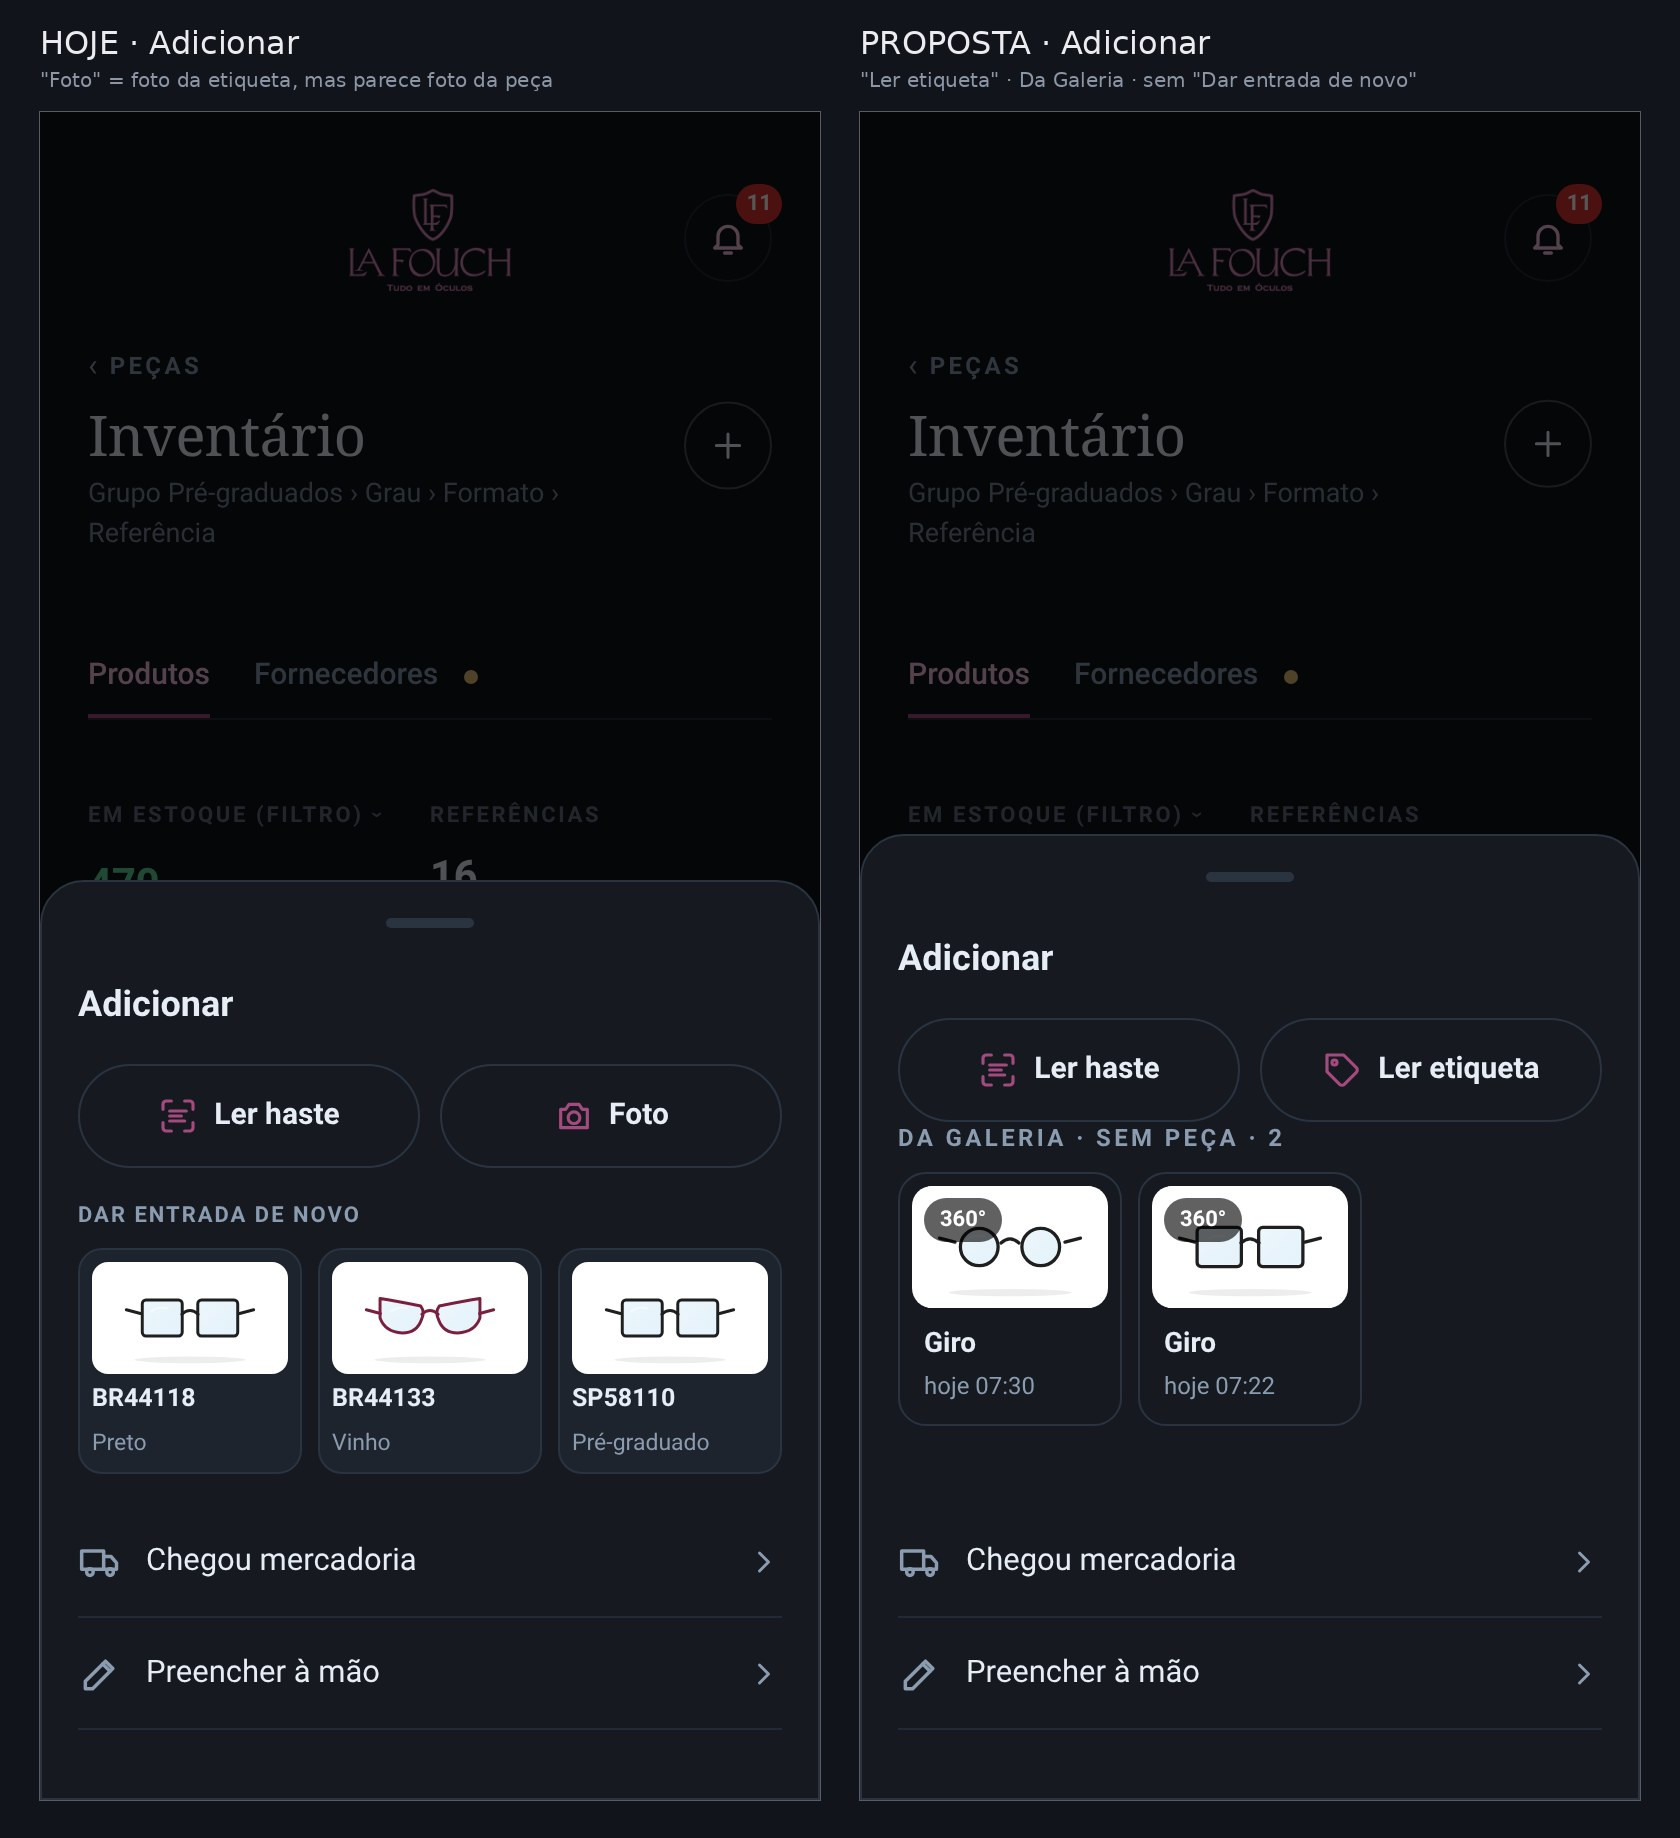
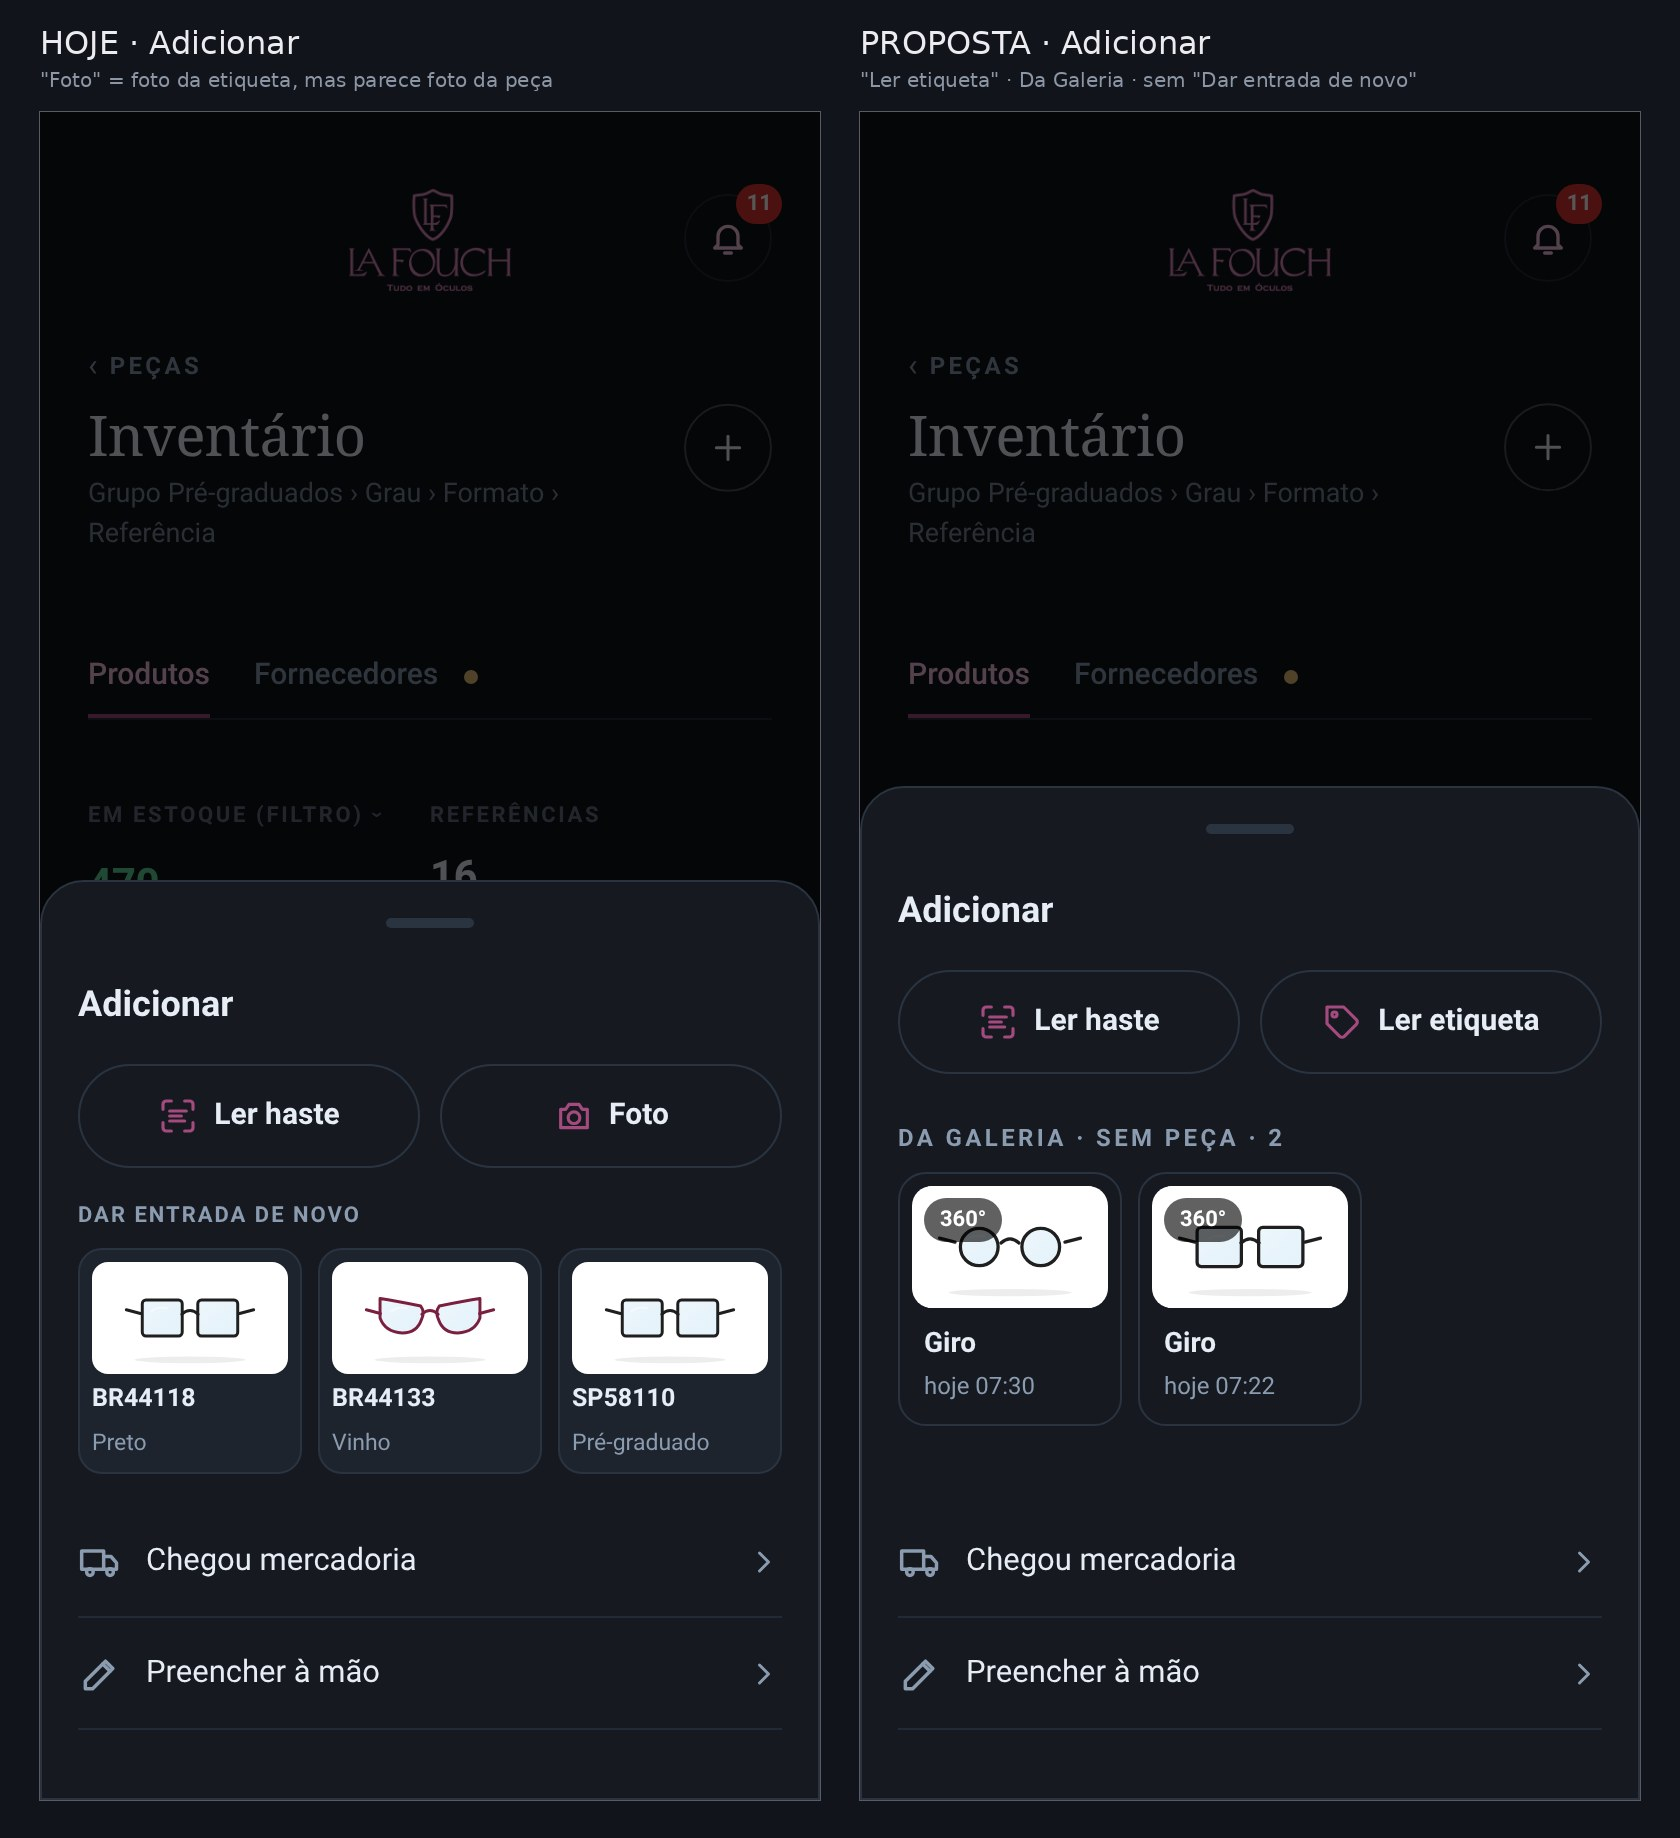
esboço 44a: espaço do rótulo da Galeria
Claude-Session: https://claude.ai/code/session_01Vj5GPRt4UBskC3w8v52h7G

diff --git a/work/s435/cadastro/esboco_44.py b/work/s435/cadastro/esboco_44.py
@@ -23,7 +23,7 @@ def tela(pw,qual):
     pg.evaluate(r"""(I)=>{"""+CARD+r"""const ft=document.getElementById('btnFoto');ft.querySelector('b').textContent='Ler etiqueta';ft.setAttribute('aria-label','Ler etiqueta');
      ft.querySelector('svg').innerHTML='<path d="M20.6 13.4l-7.2 7.2a2 2 0 0 1-2.8 0L3 13V3h10l7.6 7.6a2 2 0 0 1 0 2.8z"/><circle cx="7.5" cy="7.5" r="1.5"/>';
      const lb=[...document.querySelectorAll('body *')].filter(e=>/^dar entrada de novo$/i.test((e.textContent||'').trim())&&e.getBoundingClientRect().height).pop();
-     const d=document.createElement('div');d.innerHTML='<div style="font-size:12px;font-weight:700;letter-spacing:.14em;text-transform:uppercase;color:var(--mute);margin:0 0 8px">Da Galeria · sem peça · 2</div><div style="display:grid;grid-template-columns:1fr 1fr 1fr;gap:8px;margin-bottom:24px">'+card(I[3],'Giro','hoje 07:30',1)+card(I[1],'Giro','hoje 07:22',1)+'</div>';const dn=document.getElementById('addDeNovo');dn.parentNode.insertBefore(d,dn);if(dn)dn.style.setProperty('display','none','important');lb.style.setProperty('display','none','important');let n=lb.nextElementSibling;while(n&&!/Chegou/.test(n.textContent)&&!n.querySelector('#addToLote')){n.style.setProperty('display','none','important');n=n.nextElementSibling}}""",I)
+     const d=document.createElement('div');d.innerHTML='<div style="font-size:12px;font-weight:700;letter-spacing:.14em;text-transform:uppercase;color:var(--mute);margin:24px 0 8px">Da Galeria · sem peça · 2</div><div style="display:grid;grid-template-columns:1fr 1fr 1fr;gap:8px;margin-bottom:24px">'+card(I[3],'Giro','hoje 07:30',1)+card(I[1],'Giro','hoje 07:22',1)+'</div>';const dn=document.getElementById('addDeNovo');dn.parentNode.insertBefore(d,dn);if(dn)dn.style.setProperty('display','none','important');lb.style.setProperty('display','none','important');let n=lb.nextElementSibling;while(n&&!/Chegou/.test(n.textContent)&&!n.querySelector('#addToLote')){n.style.setProperty('display','none','important');n=n.nextElementSibling}}""",I)
   if qual in ('p1','p1_p','p2','p2_p'):
     pg.evaluate("()=>document.getElementById('addToMan').click()");w(1500)
     pg.evaluate("()=>{const b=[...document.querySelectorAll('button')].find(x=>x.textContent.trim()==='Armação'&&x.getBoundingClientRect().height);b&&b.click()}");w(600)
